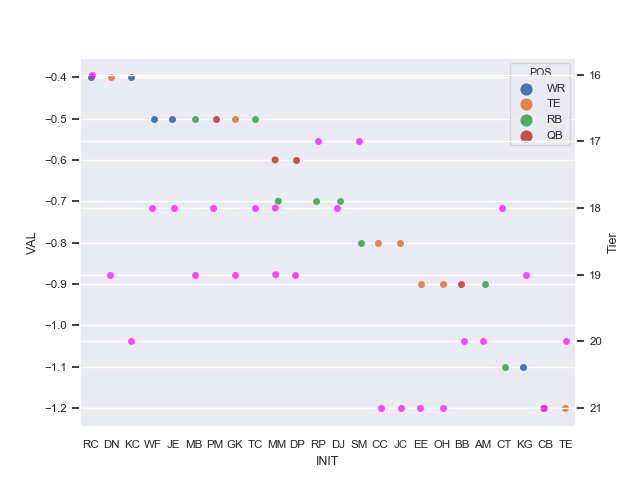
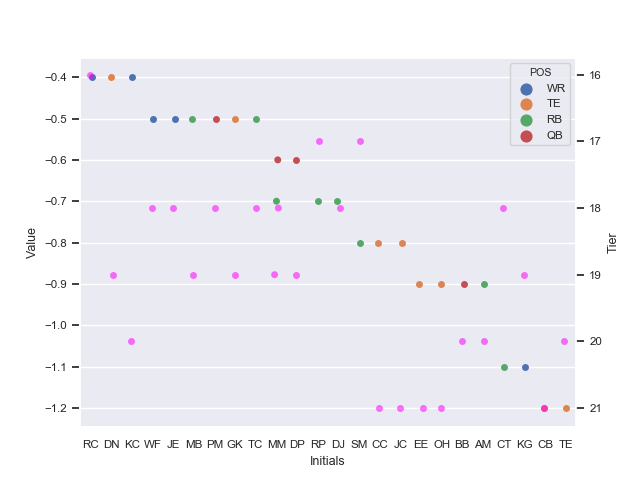
better grid lines and coloration

diff --git a/fantasy_football/get_rankings.py b/fantasy_football/get_rankings.py
@@ -35,11 +35,12 @@ def main(**args):
         while ind < len(df):
             fig, ax1 = plt.subplots()
             s = sns.catplot('INIT', 'VAL', hue='POS',ax=ax1, data=df[ind: min(ind + 25, (len(df)))])
+            ax1.set(ylabel='Value',xlabel='Initials')
             ax2 = ax1.twinx()
-            s = sns.catplot('INIT', 'T', color='magenta', alpha=.7, ax=ax2, data=df[ind: min(ind + 25, (len(df)))])
+            s = sns.catplot('INIT', 'T', color='magenta', alpha=.55, ax=ax2, data=df[ind: min(ind + 25, (len(df)))])
             ax2.invert_yaxis()
-            ax2.set(ylabel='Tier')
-            s.set(xlabel='Initials')
+            ax2.grid(False)
+            ax2.set(ylabel='Tier', xlabel='Initials')
             fig.savefig(f'fantasy_viz{count}.png')
             count += 1
             ind += 25
